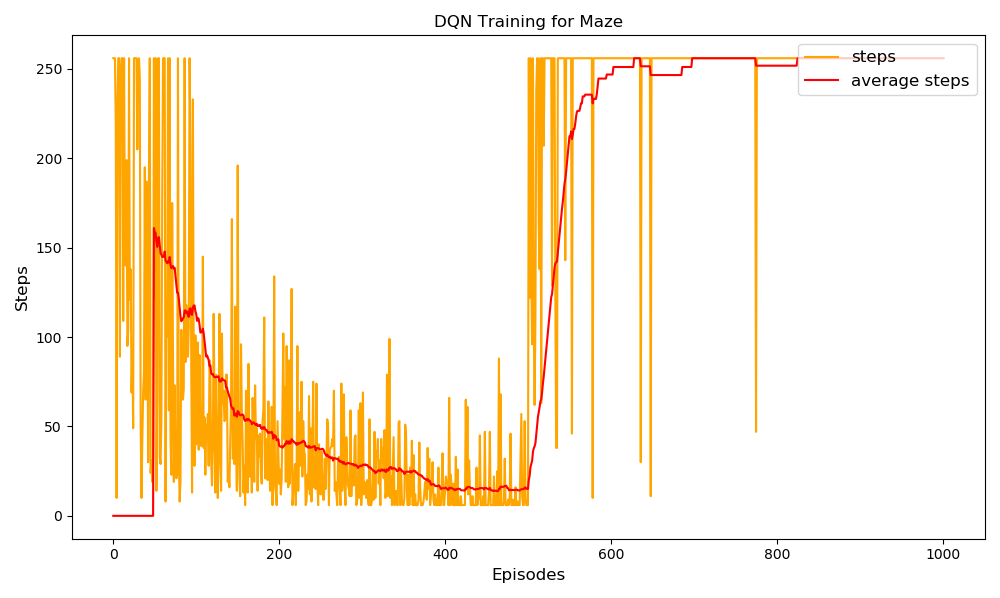
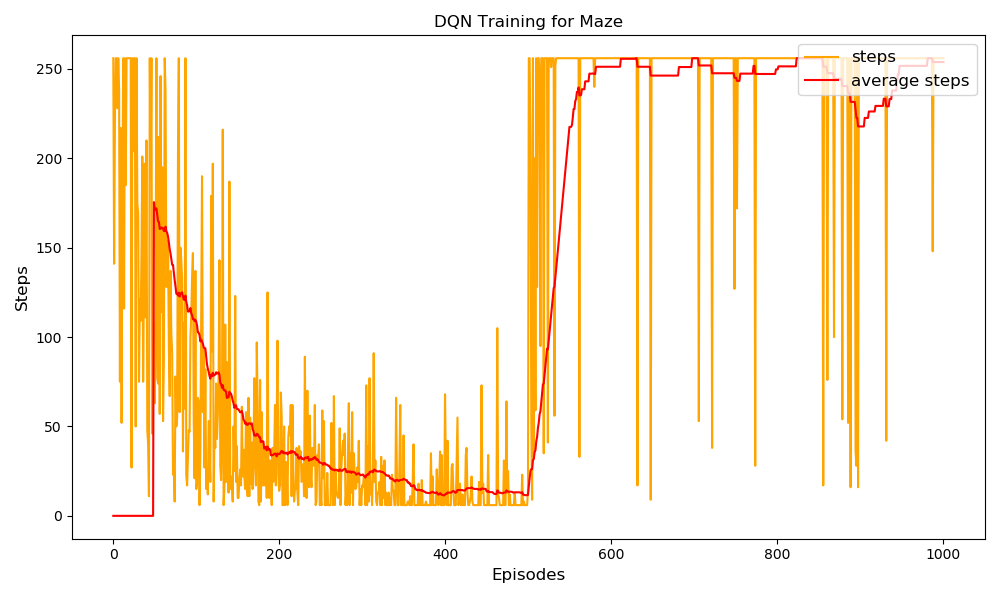
EWC Refactor

Changed region(s): [[0.093, 0.0903, 0.961, 0.8428], [0.93, 0.1505, 0.961, 0.301]]

diff --git a/Maze/utilities.py b/Maze/utilities.py
@@ -67,45 +67,29 @@ def train(dqn, env, episode_durations, EPISODES, CONSOLE_UPDATE_RATE, visualizer
             action = dqn.choose_action(state)
 
             next_state, reward, done, info = env.step(action.item())
-
             reward = torch.FloatTensor([[reward]])
-            # next_state = extractState(next_state)
             next_state = env.extractState()
 
             dqn.store_transition(state, action, reward, next_state)
-
-            steps += 1
-            
             dqn.learn()                
 
+            state = next_state
+            steps += 1
+            
             if done: 
                 print(f"{episode} Episode finished after {steps} steps.")
                 break
 
-            state = next_state
-
         dqn.decay_epsilon(episode)
         episode_durations.append(steps)
 
-        if steps % 10_000 == 0:
-            break
-
-
 
 def train_ewc(dqn: DQN, env, old_env, episode_durations, EPISODES, CONSOLE_UPDATE_RATE, visualizer, task):
-
-    # Calculate Fisher by creating the EWC object
-    old_transitions = []
-    sample_size = dqn.batch_size // 2
-
-    for t in range(task - 1):
-        transitions = dqn.memory.sample(sample_size)
-        old_transitions = old_transitions + transitions
-    
-    ewc = EWC(dqn, old_transitions)
-
     # Reset the dqn
     dqn.reset_training()
+
+    # Calculate Fisher by creating the EWC object
+    ewc = EWC(dqn)
 
     for episode in range(EPISODES + 1):
         state = env.reset()
@@ -121,22 +105,18 @@ def train_ewc(dqn: DQN, env, old_env, episode_durations, EPISODES, CONSOLE_UPDAT
             action = dqn.choose_action(state)
 
             next_state, reward, done, info = env.step(action.item())
-
             reward = torch.FloatTensor([[reward]])
-            # next_state = extractState(next_state)
             next_state = env.extractState()
 
             dqn.store_transition(state, action, reward, next_state)
+            dqn.learn(ewc)     
 
-            steps += 1
-            
-            dqn.learn(ewc)                
+            state = next_state
+            steps += 1           
 
             if done: 
                 print(f"{episode} Episode finished after {steps} steps.")
                 break
-
-            state = next_state
 
         dqn.decay_epsilon(episode)
         episode_durations.append(steps)
@@ -144,6 +124,3 @@ def train_ewc(dqn: DQN, env, old_env, episode_durations, EPISODES, CONSOLE_UPDAT
         if episode % CONSOLE_UPDATE_RATE == 0:
             test(dqn.eval_model, old_env, should_render=False)
             test(dqn.eval_model, env, should_render=False)
-
-        if steps % 10_000 == 0:
-            break

diff --git a/Maze/DQN_Maze.py b/Maze/DQN_Maze.py
@@ -41,6 +41,7 @@ class DQN(object):
 
         self.memory_size = memory_size
         self.memory = ReplayMemory(memory_size)
+        self.old_memory = []
         self.target_udpate_counter = target_update_counter
         self.learn_step_counter = 0
         self.batch_size = batch_size
@@ -70,6 +71,11 @@ class DQN(object):
     def reset_training(self):
         self.learn_step_counter = 0
         self.epsilon = EPSILON_MAX
+
+        # Save a batch of old memories
+        transitions = self.memory.sample(self.batch_size)
+        self.old_memory = self.old_memory + transitions
+
         self.memory = ReplayMemory(self.memory_size)
 
     def learn(self, ewc=None):
@@ -80,15 +86,15 @@ class DQN(object):
         if self.learn_step_counter % self.target_udpate_counter == 0:
             self.target_model.load_state_dict(self.eval_model.state_dict())
 
-        self.learn_step_counter += 1
-
         transitions = self.memory.sample(self.batch_size) 
-        batch = Transition(*zip(*transitions)) 
+        batch = Transition(*zip(*transitions))
 
         state_batch  = torch.cat(batch.state)
         action_batch = torch.cat(batch.action)
         reward_batch = torch.cat(batch.reward)
         next_state_batch = torch.cat(batch.next_state)
+
+        self.optimizer.zero_grad()
 
         q_eval = self.eval_model(state_batch).gather(1, action_batch)
         q_next = self.target_model(next_state_batch).detach().max(1)[0].view(self.batch_size, 1)
@@ -97,11 +103,15 @@ class DQN(object):
 
         loss = self.loss_func(q_eval, new_q)
         if ewc is not None:
-            loss = loss + self.ewc_importance * ewc.penalty(self.eval_model)
+            penalty = ewc.penalty(self.eval_model)
+            updated_loss = loss + self.ewc_importance * penalty
+            # print(f"Loss: {loss}, Penalty: {penalty}, Updated loss: {updated_loss}")
+            loss = updated_loss
 
-        self.optimizer.zero_grad()
+
         loss.backward()
         self.optimizer.step()
+        self.learn_step_counter += 1
 
     def save(self, path):
         torch.save(self.eval_model.state_dict(), path)

diff --git a/Maze/train_maze.py b/Maze/train_maze.py
@@ -28,14 +28,11 @@ env_diagonal_reverse = EmptyEnv(size=8, goal_position=[1, 1], agent_start_pos=[6
 
 env = env_right
 
-state = env.reset()
-env_shape = env.observation_space['image'].shape
-
 # Turn Left, Turn Right, Move Forward
 env_action_num = 3
 env_state_num = env.getStateSize()
 
-dqn = DQN(GAMMA, MEMORY_SIZE, TARGET_UPDATE, BATCH_SIZE, env_state_num, env_action_num, ewc_importance=350)
+dqn = DQN(GAMMA, MEMORY_SIZE, TARGET_UPDATE, BATCH_SIZE, env_state_num, env_action_num, ewc_importance=200)
 
 visualizer = Visualizer("DQN Training for Maze")
 episode_durations = []
@@ -45,8 +42,8 @@ test(dqn.eval_model, env_down)
 
 # train(dqn, env_right, episode_durations, 500, CONSOLE_UPDATE_RATE, visualizer, task=2)
 train_ewc(dqn, env_right, env_down, episode_durations, 500, 10, visualizer, task=2)
-test(dqn.eval_model, env_right)
 test(dqn.eval_model, env_down)
+test(dqn.eval_model, env_right)
 
 dqn.save(f"models/maze/{NAME}.pth")
 visualizer.plot_durations(episode_durations)

diff --git a/Maze/EWC.py b/Maze/EWC.py
@@ -8,11 +8,11 @@ import random
 from Transition import Transition
 
 class EWC(object):
-    def __init__(self, dqn: DQN, dataset: list, device='cpu'):
+    def __init__(self, dqn: DQN, device='cpu'):
 
         self.dqn = dqn
         self.model = dqn.eval_model
-        self.dataset = dataset
+        self.dataset = dqn.old_memory
         self.device = device
         self.loss_func = nn.MSELoss()
 
